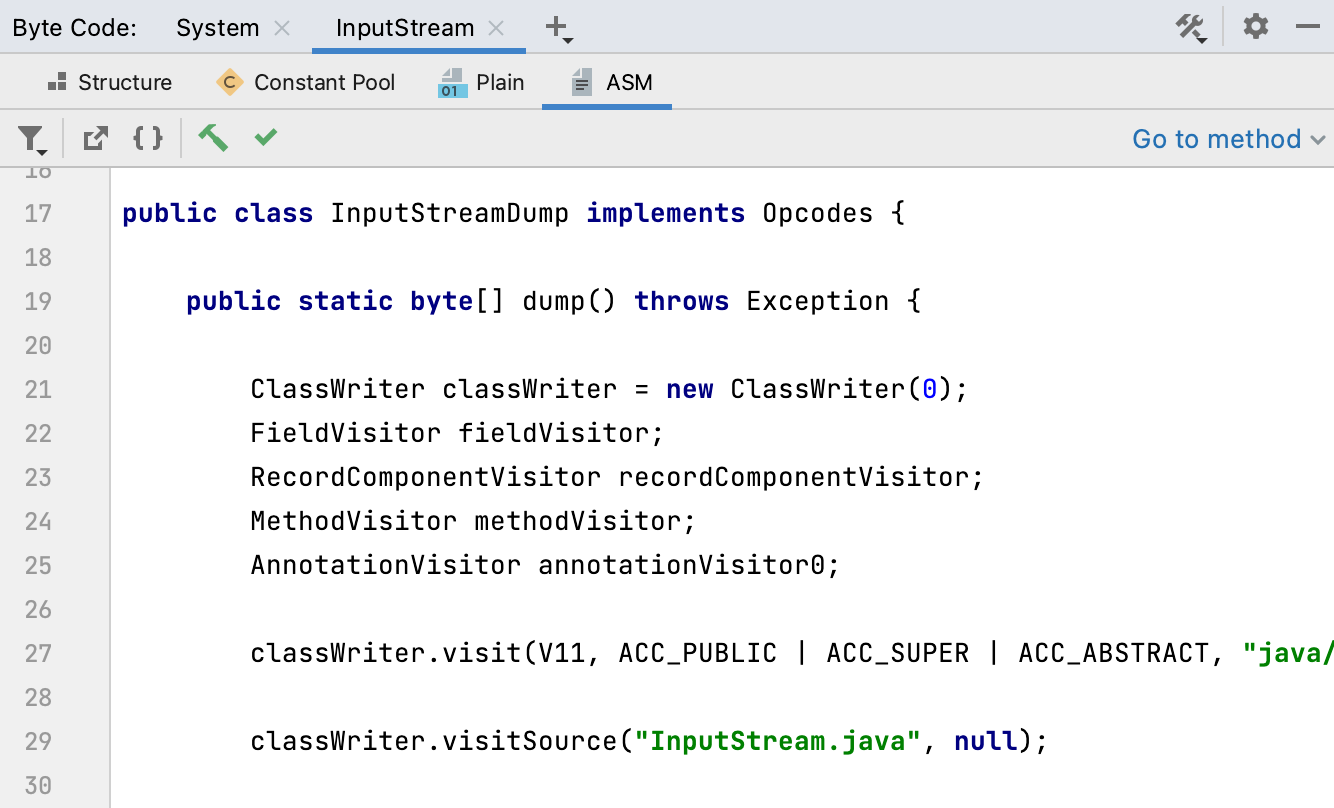
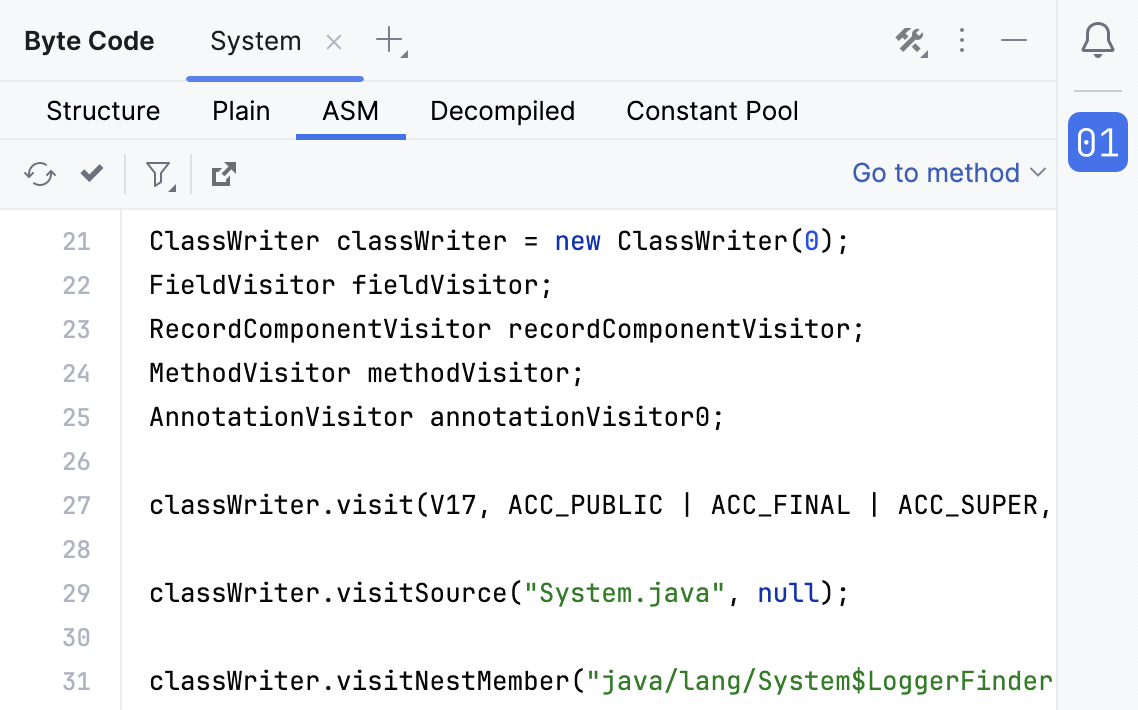
docs: Refresh screenshots and description

diff --git a/src/main/kotlin/dev/turingcomplete/intellijbytecodeplugin/view/_internal/VerifyByteCodeAction.kt b/src/main/kotlin/dev/turingcomplete/intellijbytecodeplugin/view/_internal/VerifyByteCodeAction.kt
@@ -45,7 +45,7 @@ internal class VerifyByteCodeAction : ByteCodeAction("Verify Byte Code", null, B
 
     val onError = DataProviderUtils.getData(CommonDataKeys.ON_ERROR_DATA_KEY, e.dataContext)
 
-    val execute = {
+    val verifyByteCode = {
       val resultWriter = StringWriter()
       val printWriter = PrintWriter(resultWriter)
       CheckClassAdapter.verify(classFileContext.classReader(), true, printWriter)
@@ -54,7 +54,7 @@ internal class VerifyByteCodeAction : ByteCodeAction("Verify Byte Code", null, B
       val success = !output.contains(AnalyzerException::class.java.name)
       ClassFileContext.VerificationResult(success, output)
     }
-    AsyncUtils.runAsync(classFileContext.project(), execute, { result ->
+    AsyncUtils.runAsync(classFileContext.project(), verifyByteCode, { result ->
       ApplicationManager.getApplication().invokeLater {
         val resultPanel = VerifyByteCodeResultPanel(result)
         UiUtils.Dialog.show("Verify Byte Code Result", resultPanel, Dimension(800, 450), classFileContext.project())

diff --git a/README.md b/README.md
@@ -22,30 +22,35 @@ The plugin currently uses [ASM 9.6](https://asm.ow2.io) under the hood, supporti
 
 The heart of the tool window is the structure view of a class file. It gives a depth and human-readable insights into the individual elements of a given class file:
 
-<img src="screenshots/tool-window-structure-view.png" alt="Structure View" width="405px"/>
+<img src="screenshots/structure-view.png" alt="Structure View" width="461px"/>
 
 In addition to listing the method instructions, we can view the state of the method frames (locals and current stack) after the execution of each instruction:
 
 <img src="screenshots/show-method-frames-action.png" alt="Method Frames View" width="700px"/>
 
-### Constant Pool View
-
-This view provides insights into the constant pool entries of the class file:
-
-<img src="screenshots/constantpool-view.png" alt="Constant Pool View" width="487px"/>
-
-
 ### Plain View
 
 The plain view provides a textified representation of the byte code:
 
-<img src="screenshots/textified-view.png" alt="Plain View" width="529px"/>
+<img src="screenshots/plain-view.png" alt="Plain View" width="461px"/>
 
 ### ASM View
 
 The ASM view provides Java source code that contains all instructions to generate the class via the [ASM](https://asm.ow2.io) library:
 
-<img src="screenshots/asmified-view.png" alt="ASM View" width="667px"/>
+<img src="screenshots/asmified-view.png" alt="ASM View" width="569px"/>
+
+### Decompiled View
+
+A view that provides the result of the de-compilation of the class file using IntelliJ's built-in decompilers.
+
+<img src="screenshots/decompiled-view.png" alt="ASM View" width="461px"/>
+
+### Constant Pool View
+
+This view provides insights into the constant pool entries of the class file:
+
+<img src="screenshots/constantpool-view.png" alt="Constant Pool View" width="462px"/>
 
 ### Byte Code Tools
 
